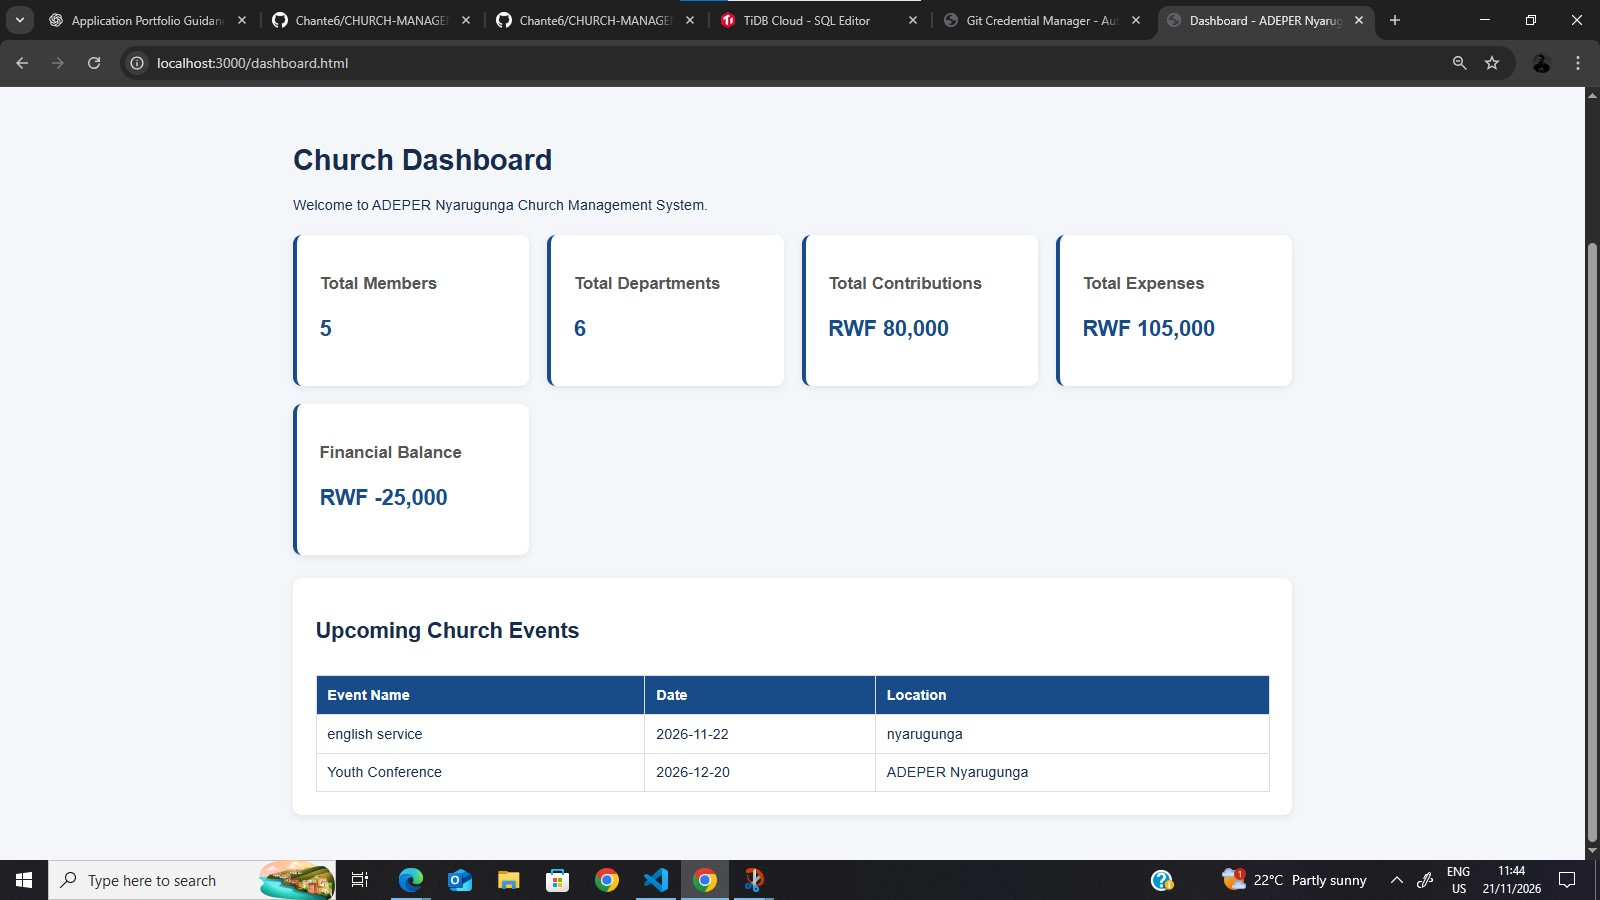
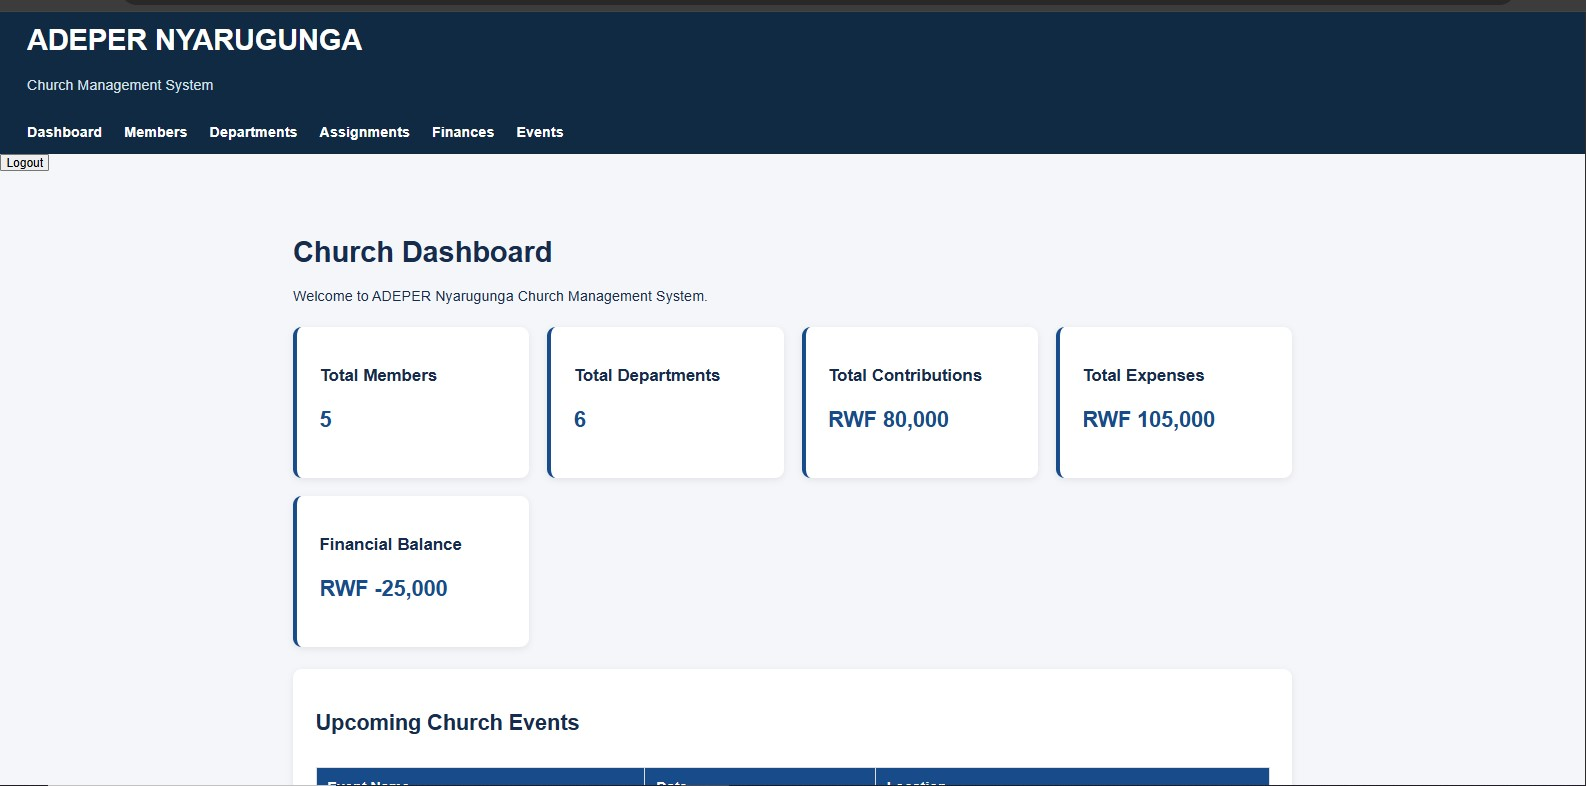
Improve dashboard styling and update screenshot

diff --git a/style.css b/style.css
@@ -1,5 +1,4 @@
 
-
 /* Registration Form Design */
 
 .add-member {
@@ -68,6 +67,8 @@
     }
 }
 
+/* General Styling */
+
 * {
     box-sizing: border-box;
 }
@@ -96,6 +97,7 @@ header p {
 
 main {
     padding: 30px;
+    color: #172b4d;
 }
 
 .table-container {
@@ -108,12 +110,14 @@ main {
 table {
     width: 100%;
     border-collapse: collapse;
+    color: #172b4d;
 }
 
 th, td {
     padding: 14px;
     text-align: left;
     border-bottom: 1px solid #e5e7eb;
+    color: #172b4d;
 }
 
 th {
@@ -133,6 +137,7 @@ tr:hover {
         padding: 15px;
     }
 }
+
 /* Member Action Buttons */
 
 #members-list button {
@@ -157,16 +162,28 @@ tr:hover {
     opacity: 0.8;
 }
 
+/* Navigation */
+
+/* Navigation Menu */
+
 nav {
-    margin-top: 15px;
+    margin-top: 0;
+    background: #102a43;
+    padding: 15px 30px;
 }
 
 nav a {
     color: white;
     text-decoration: none;
-    margin-right: 15px;
+    margin-right: 20px;
     font-weight: bold;
 }
+
+nav a:hover {
+    color: #d9e2ec;
+}
+
+/* Department Form */
 
 #department-form {
     display: grid;
@@ -192,4 +209,13 @@ nav a {
     color: white;
     cursor: pointer;
     font-weight: bold;
+}
+
+/* Consistent Text Colors Across Management Pages */
+
+main h1,
+main h2,
+main h3,
+label {
+    color: #172b4d;
 }

diff --git a/dashboard.html b/dashboard.html
@@ -29,10 +29,16 @@
             border-left: 5px solid #174b8a;
         }
 
-        .dashboard-card h3 {
-            color: #555;
-            margin-bottom: 12px;
-        }
+       .dashboard-card h3 {
+    color: #172b4d;
+    margin-bottom: 12px;
+}
+.dashboard-container > h1,
+.dashboard-container > p,
+.events-section h2,
+.events-table td {
+    color: #172b4d;
+}
 
         .dashboard-card p {
             font-size: 24px;
